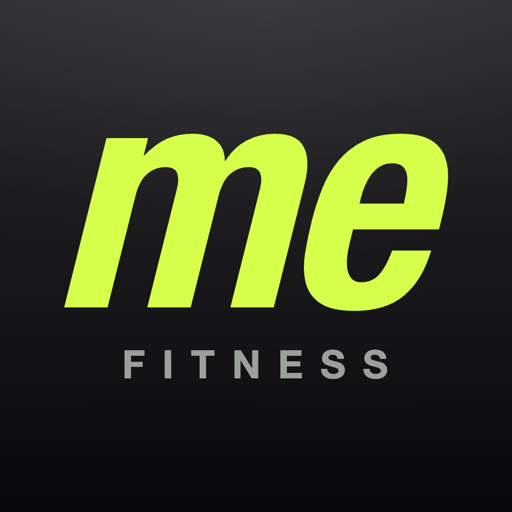
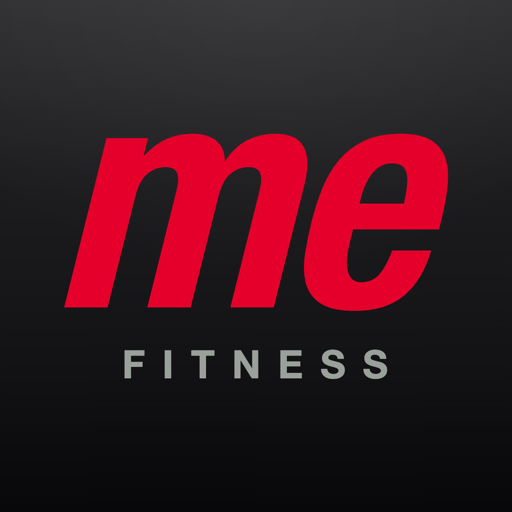
主题换红色（Nike Red #E4002B），图标 me 同步改红

Changed region(s): [[0.125, 0.25, 0.875, 0.625]]

diff --git a/index.html b/index.html
@@ -22,11 +22,11 @@
   --text:#f2f4f2;
   --muted:#8b938c;
   --muted2:#626963;
-  --lime:#d6ff4b;
-  --lime-dim:#a8cc2e;
+  --lime:#E4002B;
+  --lime-dim:#B3001F;
   --orange:#ff8a4c;
   --blue:#6ea8ff;
-  --glow-rgb:214,255,75;
+  --glow-rgb:228,0,43;
 
   /* ===== 玻璃母版（实测自 getComputedStyle） ===== */
   --glass-top:rgba(13,15,14,.46);
@@ -157,14 +157,14 @@ h1 .en{font-size:14px;font-weight:600;letter-spacing:.16em;color:var(--muted2)}
 .syncline b{color:rgba(242,244,242,.92);font-weight:600;font-variant-numeric:tabular-nums}
 .live{
   width:5px;height:5px;border-radius:50%;background:var(--lime);
-  box-shadow:0 0 8px rgba(214,255,75,.8);flex:none;
+  box-shadow:0 0 8px rgba(228,0,43,.8);flex:none;
 }
 
 /* 动作效率等级 */
 .grade{
   font-size:8.5px;font-weight:800;letter-spacing:.06em;
   padding:2px 5px;border-radius:5px;margin-left:6px;vertical-align:1px;
-  background:rgba(214,255,75,.12);color:var(--lime);
+  background:rgba(228,0,43,.12);color:var(--lime);
 }
 .grade.a{background:rgba(110,168,255,.14);color:var(--blue)}
 .grade.b{background:rgba(255,255,255,.07);color:var(--muted)}
@@ -216,7 +216,7 @@ h1 .en{font-size:14px;font-weight:600;letter-spacing:.16em;color:var(--muted2)}
   transition:background .25s;
 }
 .ex + .ex{margin-top:8px}
-.ex.done{background-image:linear-gradient(180deg,rgba(214,255,75,.07),rgba(214,255,75,.04)),var(--edge-gloss)}
+.ex.done{background-image:linear-gradient(180deg,rgba(228,0,43,.07),rgba(228,0,43,.04)),var(--edge-gloss)}
 .exrow{display:flex;align-items:baseline;justify-content:space-between;gap:10px}
 .ex h3{margin:0;font-size:14.5px;font-weight:600;letter-spacing:-.01em}
 .exload{font-size:12.5px;font-weight:600;color:var(--muted);font-variant-numeric:tabular-nums;white-space:nowrap}
@@ -241,7 +241,7 @@ h1 .en{font-size:14px;font-weight:600;letter-spacing:.16em;color:var(--muted2)}
   position:absolute;left:var(--page-pad);right:var(--page-pad);
   bottom:calc(var(--dock-h) + var(--dock-bottom) + var(--safe-b) + 14px);z-index:18;
   padding:14px;border:1px solid transparent;border-radius:14px;
-  background:var(--lime);color:#0a0b0c;
+  background:linear-gradient(180deg,#FF2D4A,var(--lime));color:#fff;
   font-size:14px;font-weight:600;letter-spacing:.01em;
   font-family:inherit;cursor:pointer;
   transition:transform .18s cubic-bezier(.2,1.3,.4,1),filter .18s ease,opacity .2s;
@@ -313,7 +313,7 @@ h1 .en{font-size:14px;font-weight:600;letter-spacing:.16em;color:var(--muted2)}
 .aicard .tag{
   display:inline-flex;align-items:center;gap:5px;
   font-size:10px;font-weight:700;letter-spacing:.1em;color:var(--lime);
-  background:rgba(214,255,75,.1);padding:3px 8px;border-radius:20px;
+  background:rgba(228,0,43,.1);padding:3px 8px;border-radius:20px;
   margin-bottom:11px;
 }
 .aicard h2{margin:0;font-size:22px;font-weight:700;letter-spacing:-.03em}
@@ -329,7 +329,7 @@ h1 .en{font-size:14px;font-weight:600;letter-spacing:.16em;color:var(--muted2)}
 /* 身体数据卡 */
 .bchead{display:flex;align-items:center;justify-content:space-between;margin-bottom:13px}
 .bchead span:first-child{font-size:10.5px;color:var(--muted2);letter-spacing:.06em}
-.synctime{font-size:9.5px;color:var(--lime);background:rgba(214,255,75,.1);padding:3px 8px;border-radius:20px;font-weight:600;letter-spacing:.02em}
+.synctime{font-size:9.5px;color:var(--lime);background:rgba(228,0,43,.1);padding:3px 8px;border-radius:20px;font-weight:600;letter-spacing:.02em}
 .bgrid{display:grid;grid-template-columns:repeat(4,1fr);gap:4px}
 .bgrid div{display:flex;flex-direction:column;gap:5px}
 .bgrid b{font-size:19px;font-weight:650;letter-spacing:-.045em;font-variant-numeric:tabular-nums;line-height:1}
@@ -342,7 +342,7 @@ h1 .en{font-size:14px;font-weight:600;letter-spacing:.16em;color:var(--muted2)}
 .vol{display:flex;align-items:center;gap:10px}
 .vl{width:30px;flex:none;font-size:11px;color:var(--muted)}
 .vbar{flex:1;height:8px;border-radius:4px;background:rgba(255,255,255,.07);overflow:hidden}
-.vbar i{display:block;height:100%;border-radius:4px;background:linear-gradient(90deg,rgba(214,255,75,.5),var(--lime))}
+.vbar i{display:block;height:100%;border-radius:4px;background:linear-gradient(90deg,rgba(228,0,43,.5),var(--lime))}
 .vv{width:22px;text-align:right;font-size:11.5px;font-weight:600;font-variant-numeric:tabular-nums}
 .volfoot{display:flex;justify-content:space-between;font-size:10px;color:var(--muted2);padding-top:10px;border-top:1px solid var(--line);margin-top:1px;letter-spacing:.02em}
 .volfoot b{color:var(--text);font-weight:650}
@@ -368,7 +368,7 @@ h1 .en{font-size:14px;font-weight:600;letter-spacing:.16em;color:var(--muted2)}
 
 .badge{
   font-size:9.5px;font-weight:700;letter-spacing:.06em;
-  color:#0a0b0c;background:var(--lime);padding:2px 7px;border-radius:20px;
+  color:#fff;background:var(--lime);padding:2px 7px;border-radius:20px;
 }
 .badge.ghost{background:rgba(255,255,255,.09);color:var(--muted)}
 
@@ -402,9 +402,9 @@ h1 .en{font-size:14px;font-weight:600;letter-spacing:.16em;color:var(--muted2)}
 
 .heat{display:grid;grid-template-columns:repeat(14,1fr);gap:4px}
 .heat i{display:block;aspect-ratio:1;border-radius:2.5px;background:rgba(255,255,255,.055)}
-.heat i.l1{background:rgba(214,255,75,.20)}
-.heat i.l2{background:rgba(214,255,75,.42)}
-.heat i.l3{background:rgba(214,255,75,.68)}
+.heat i.l1{background:rgba(228,0,43,.20)}
+.heat i.l2{background:rgba(228,0,43,.42)}
+.heat i.l3{background:rgba(228,0,43,.68)}
 .heat i.l4{background:var(--lime)}
 
 /* ---------- 我的 ---------- */
@@ -467,7 +467,7 @@ h1 .en{font-size:14px;font-weight:600;letter-spacing:.16em;color:var(--muted2)}
   transition:background .2s,border-color .2s,color .2s,transform .18s cubic-bezier(.2,1.3,.4,1),filter .18s ease;
 }
 .chip:active{transform:scale(.96);filter:brightness(1.1) saturate(1.06)}
-.chip.on{background:rgba(214,255,75,.12);border-color:rgba(214,255,75,.42);color:var(--lime);font-weight:650}
+.chip.on{background:rgba(228,0,43,.12);border-color:rgba(228,0,43,.42);color:var(--lime);font-weight:650}
 .sheet .cta{position:static;width:100%;margin-top:8px}
 
 .think{display:flex;flex-direction:column;gap:11px;padding:6px 0 4px}
@@ -485,13 +485,13 @@ h1 .en{font-size:14px;font-weight:600;letter-spacing:.16em;color:var(--muted2)}
 .result{
   border-radius:var(--tile-r);padding:16px;margin-top:4px;
   background-color:rgba(255,255,255,.04);
-  border:1px solid rgba(214,255,75,.18);
+  border:1px solid rgba(228,0,43,.18);
 }
 .result h3{margin:0;font-size:19px;font-weight:700;letter-spacing:-.02em}
 .result p{margin:7px 0 0;font-size:11.5px;color:var(--muted);line-height:1.65}
 .resmeta{
-  margin-top:11px;padding-top:10px;border-top:1px solid rgba(214,255,75,.16);
-  font-size:10px;color:rgba(214,255,75,.75);letter-spacing:.02em;line-height:1.5;
+  margin-top:11px;padding-top:10px;border-top:1px solid rgba(228,0,43,.16);
+  font-size:10px;color:rgba(228,0,43,.75);letter-spacing:.02em;line-height:1.5;
 }
 
 /* 训练中 */
@@ -517,7 +517,7 @@ h1 .en{font-size:14px;font-weight:600;letter-spacing:.16em;color:var(--muted2)}
 }
 .iopt svg{width:24px;height:24px;fill:currentColor}
 .iopt:active{transform:scale(.96);filter:brightness(1.1) saturate(1.06)}
-.iopt.on{background:rgba(214,255,75,.12);border-color:rgba(214,255,75,.42);color:var(--lime)}
+.iopt.on{background:rgba(228,0,43,.12);border-color:rgba(228,0,43,.42);color:var(--lime)}
 .iconnote{
   font-size:10.5px;color:var(--muted2);line-height:1.7;
   padding:13px 0 4px;border-top:1px solid var(--line);margin-top:6px;
@@ -556,7 +556,7 @@ h1 .en{font-size:14px;font-weight:600;letter-spacing:.16em;color:var(--muted2)}
             <svg width="124" height="124" viewBox="0 0 124 124">
               <defs>
                 <linearGradient id="ringGrad" x1="0" y1="0" x2="1" y2="1">
-                  <stop offset="0%" stop-color="#d6ff4b"/>
+                  <stop offset="0%" stop-color="#E4002B"/>
                   <stop offset="100%" stop-color="#9ee32f"/>
                 </linearGradient>
               </defs>

diff --git a/tools/icon.html b/tools/icon.html
@@ -14,7 +14,7 @@
     font-family:"HNCB","Helvetica Neue",Helvetica,sans-serif;
     font-style:italic;font-weight:700;
     font-size:630px;line-height:.72;letter-spacing:-.02em;
-    color:#d6ff4b;margin:0 0 58px 6px;
+    color:#E4002B;margin:0 0 58px 6px;
     transform:translate(-44px,-61px);
   }
   .sub{
